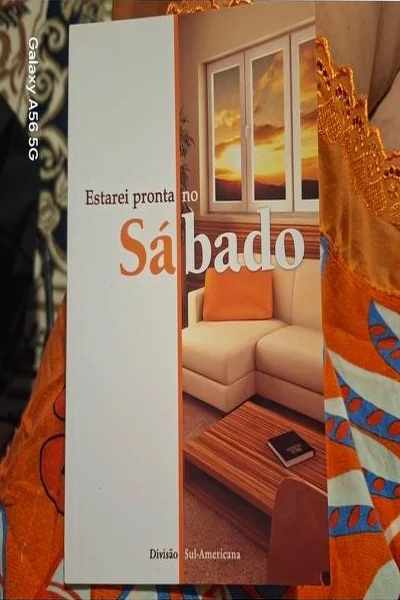
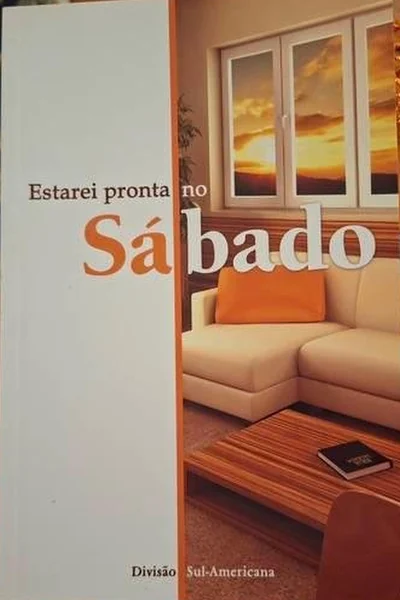
feat(catálogo): Mensageiro à venda, descrições revistas contra o livro e autores
Mensageiro: descrição a partir da sinopse da CPB, autor (Dirceu Madalena e Hirailton Vinhote
Correa) e publicação pela mesma regra dos outros produtos do KiGest (preço, capa, descrição).

Descrições: as dos produtos do KiGest tinham sido escritas só a partir do nome do artigo. Lidas
agora ao lado da sinopse da editora (95) ou da capa (14), 25 foram reescritas: falavam de outro
livro («Livre das Garras do Sucesso» é sobre música, «Vida e Ensinos» é a autobiografia de Ellen
White, «Simples Demais» é sobre a saúde da mente…), chamavam folheto a um livro, ou prometiam o que
ninguém confirmou. A migração só troca o texto que ainda é o escrito (md5), não o do painel.

Autores: 93 livros passam a ter o autor (página da CPB ou capa); as bíblias e o hinário não.

A capa de «Estarei Pronta no Sábado» foi recortada pelos cantos à mão: tinha a marca do telemóvel
de quem tirou a foto e o fundo.

Migração testada em PGlite: Mensageiro publicado, 24 descrições trocadas e uma do painel mantida,
autores, e duas corridas seguidas com o mesmo resultado.

Claude-Session: https://claude.ai/code/session_0137iPRH9q5xq4tQ2mMQbK8z

diff --git a/docs/catalogo/CAPAS-INTERNET.md b/docs/catalogo/CAPAS-INTERNET.md
@@ -148,17 +148,46 @@ Os nomes que vieram truncados ou com gralhas do KiGest e que a capa e o ISBN con
 E o ISBN de «Princípios sobre Aposentadoria», que tinha uma gralha (`9788732534895` →
 `9788534534895`).
 
+## Descrições revistas
+
+As descrições dos produtos do KiGest foram escritas só a partir do nome do artigo, antes de se saber
+que livro era cada um. Com a capa e a página da editora identificadas, leram-se todas ao lado da
+sinopse da CPB (95) ou da capa (14). **25 foram reescritas** e a do «Mensageiro», que não tinha
+nenhuma, é nova. As outras dizem o mesmo que a editora e ficaram.
+
+| Porquê | Livros |
+|---|---|
+| Falavam de outro assunto | «Livre das Garras do Sucesso» (é sobre música, não sobre carreiras), «Vida e Ensinos» (a autobiografia de Ellen White, não a vida de Jesus), «Simples Demais» (a saúde da mente, não viver com menos), «Administração Eficaz» (mordomia, não gestão de instituições), «Profecias Surpreendentes» (as predições de Ellen White, não Daniel e o Apocalipse), «Sucesso em Dose Dupla» (empreendedores e colaboradores, não a família), «A Chave da Virada» (saúde emocional), «21 Dias para Mudar» (saúde), «Hinário Novo» (dizia «a numeração de sempre»; tem 600 hinos e numeração nova), «Por Detrás do Véu» (o duplicado) |
+| Chamavam folheto a um livro | «A Única Esperança», «Em Busca de Esperança», «Sinais de Esperança» (e «O Último Convite», no passo 5) |
+| Outro público ou outro género | «Inigualável» (estudo teológico, não leitura devocional), «Maravilhas da Criação» (13–16 anos), «Bíblia dos Aventureiros» (dizia «Desbravadores e Aventureiros»), «Chamados para Salvar» (guia de evangelismo), «Revolucione Seu Futuro» (carreira profissional) |
+| Prometiam o que ninguém confirmou | «Prazer em Conhecer Ellen White» («cem mil páginas»), «Orando como Nunca por Seu Marido», «O Ciclo da Infelicidade», «Ministério para as Cidades», «Além da Magia», «Bíblia do Desbravador», «Testemunhos para a Igreja Vol. 7» |
+
+Cada descrição nova diz o que o livro é, de que trata e para quem é, com o título completo e o autor
+tirados da capa, e só o que a editora ou a capa dizem. A migração só troca a descrição que ainda é a
+que foi escrita (compara a impressão md5 do texto), por isso não pisa uma descrição mudada no painel.
+O ficheiro de origem, [descricoes-kigest.json](descricoes-kigest.json), tem os textos novos.
+
+**Autores:** os 93 livros com autor conhecido (da página da CPB ou da capa) passam a tê-lo; as bíblias
+e o hinário ficam sem, porque na CPB o «autor» deles é a tradução ou a editora.
+
+**O «Mensageiro»** (Dirceu Madalena e Hirailton Vinhote Correa) tem agora capa, descrição e autor, e
+vai à venda pela mesma regra dos outros produtos do KiGest (preço, capa, descrição, nome legível).
+
+**Editora:** todo o catálogo, incluindo os livros antigos da CPB, tem a editora «Livraria e Editora
+Adventista». Parece ser a regra da casa, por isso não se mexeu; se a ideia for mostrar a editora de
+cada livro, os 95 com capa da CPB são da Casa Publicadora Brasileira.
+
 ## Notas para a equipa
 
 | Produto | Nota |
 |---|---|
-| «Mensageiro» (14159, oculto) | Ganhou a capa; falta-lhe a descrição para se publicar. |
 | «O Grande Conflito Infantil» (00033) | Pôs-se «Deus e o Anjo Rebelde — O Grande Conflito recontado», a versão para crianças da CPB. Provável, não confirmado. |
 | «Conselhos sobre Mordomia» | O ISBN da loja é de uma edição antiga; a capa é a da edição actual. |
 | «Conselhos sobre Escola Sabatina» (00700) e «Conselhos sobre a Escola Sabatina» (000201058) | São dois artigos no KiGest, ambos à venda no site, provavelmente duas edições do mesmo livro. Ficaram como estão. |
 | «Kit de Comentários» (00049, 160 000 Kz) | Pode ser o «Comentário Bíblico Andrews — 4 volumes» (161 100 Kz); não está confirmado e ficou como está. |
 | Bíblias dos Aventureiros e do Desbravador ocultas de 2026-11-10 (BIB-021 a BIB-024) | São as fotografias de cada cor; com as cores à escolha nas bíblias do KiGest, ficam ocultas. |
 | «Guia de Liberdade Religiosa», «Guiados por Deus», «Guia para Anciãos» | Só havia fotos pequenas (184–240 px de largura): ficam legíveis mas menos nítidas. |
+| «Guiados por Deus» e «Estarei Pronta no Sábado» | Não se encontrou de que tratam (só a capa); as descrições são as que foram escritas pelo nome. **Convém confirmar com o livro na mão.** |
 
 ## Os 44 que ficam com a capa tipográfica
 
